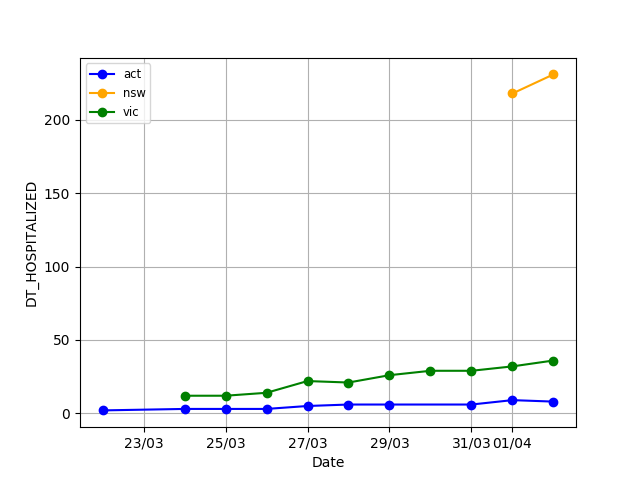
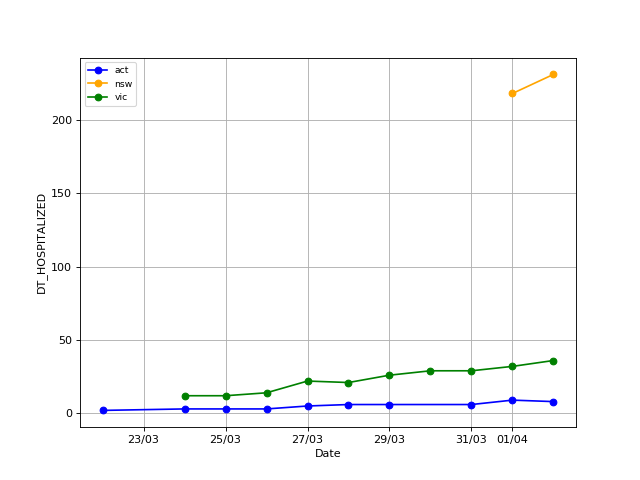
made plots larger

diff --git a/output_graphs/output_graphs.py b/output_graphs/output_graphs.py
@@ -3,6 +3,7 @@ import numpy as np
 import datetime
 import matplotlib.dates as mdates
 import matplotlib.pyplot as plt
+from matplotlib.font_manager import FontProperties
 
 
 def read_csv(datatype,
@@ -75,6 +76,8 @@ def output_graph(datatype, name_filter=None, value_filter=None, state_filter=Non
     if isinstance(state_filter, str):
         state_filter = (state_filter,)
 
+    plt.figure(figsize=(8, 6), dpi=80)
+
     for x, (k, v) in enumerate(read_csv(
         datatype, name_filter, value_filter, state_filter
     ).items()):
@@ -95,7 +98,6 @@ def output_graph(datatype, name_filter=None, value_filter=None, state_filter=Non
         else datatype
     )
 
-    from matplotlib.font_manager import FontProperties
     fontP = FontProperties()
     fontP.set_size('small')
 
